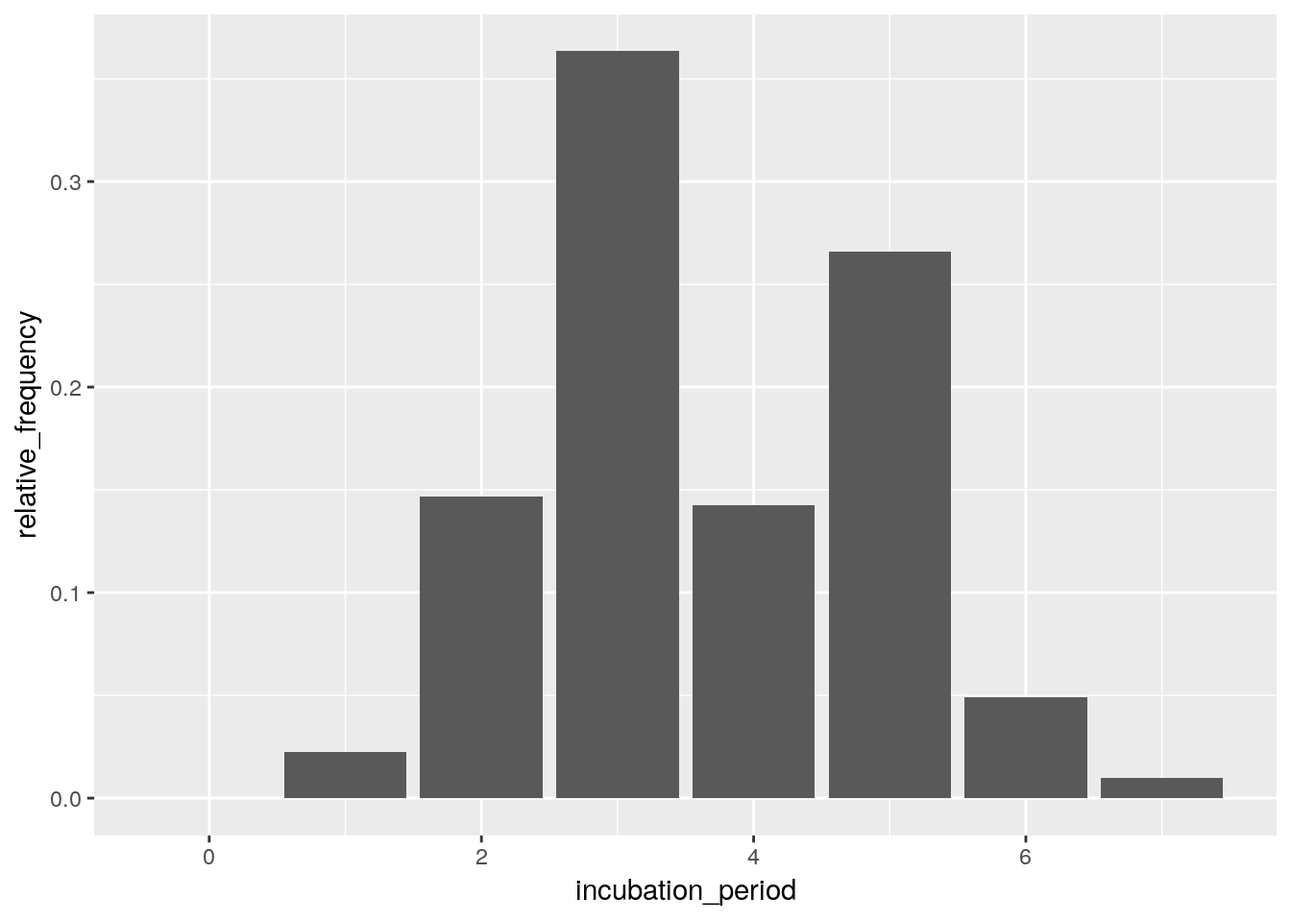
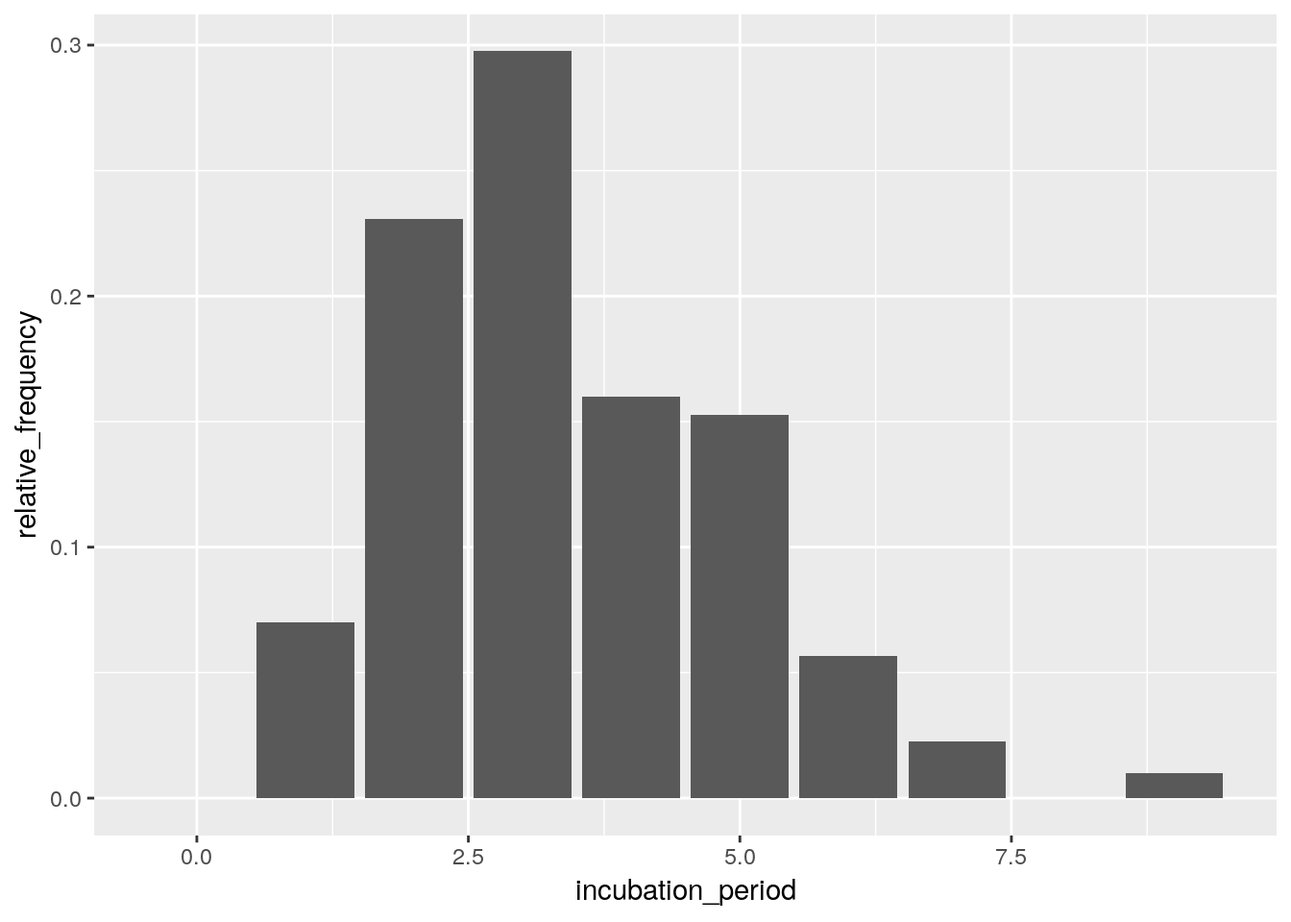
update site

diff --git a/docs/articles/estimate_incubation.html b/docs/articles/estimate_incubation.html
@@ -79,7 +79,7 @@
       <h1>Example to estimate incubation period</h1>
                         <h4 class="author">Flavio Finger</h4>
             
-            <h4 class="date">2019-05-09</h4>
+            <h4 class="date">2019-05-13</h4>
       
       
       <div class="hidden name"><code>estimate_incubation.Rmd</code></div>
@@ -119,79 +119,81 @@
 <a class="sourceLine" id="cb2-8" data-line-number="8"></a>
 <a class="sourceLine" id="cb2-9" data-line-number="9"><span class="kw"><a href="https://www.rdocumentation.org/packages/base/topics/print">print</a></span>(ll)</a>
 <a class="sourceLine" id="cb2-10" data-line-number="10"><span class="co">#&gt;        id date_of_onset  discharge gender epi_case_definition messy_dates</span></a>
-<a class="sourceLine" id="cb2-11" data-line-number="11"><span class="co">#&gt; 1  fmhvka    2018-01-07 2018-01-17   male            probable        &lt;NA&gt;</span></a>
-<a class="sourceLine" id="cb2-12" data-line-number="12"><span class="co">#&gt; 2  fbnujm    2018-01-06 2018-01-16 female            probable  2001-12-01</span></a>
-<a class="sourceLine" id="cb2-13" data-line-number="13"><span class="co">#&gt; 3  qdeewb    2018-01-03 2018-01-13 female           confirmed  1989-12-24</span></a>
-<a class="sourceLine" id="cb2-14" data-line-number="14"><span class="co">#&gt; 4  kcfrql    2018-01-02 2018-01-12 female           suspected  1989-12-24</span></a>
-<a class="sourceLine" id="cb2-15" data-line-number="15"><span class="co">#&gt; 5  vjhjsl    2018-01-08 2018-01-18   male           confirmed  2018-10-18</span></a>
-<a class="sourceLine" id="cb2-16" data-line-number="16"><span class="co">#&gt; 6  nhjgvn    2018-01-06 2018-01-16   male          not_a_case        &lt;NA&gt;</span></a>
-<a class="sourceLine" id="cb2-17" data-line-number="17"><span class="co">#&gt; 7  ksigdg    2018-01-04 2018-01-14 female           suspected        &lt;NA&gt;</span></a>
-<a class="sourceLine" id="cb2-18" data-line-number="18"><span class="co">#&gt; 8  vnnfyg    2018-01-08 2018-01-18 female           suspected  2018-10-19</span></a>
-<a class="sourceLine" id="cb2-19" data-line-number="19"><span class="co">#&gt; 9  fimmcm    2018-01-08 2018-01-18   male           suspected  1989-12-24</span></a>
-<a class="sourceLine" id="cb2-20" data-line-number="20"><span class="co">#&gt; 10 imrgvc    2018-01-04 2018-01-14 female            probable  2018-10-18</span></a>
-<a class="sourceLine" id="cb2-21" data-line-number="21"><span class="co">#&gt; 11 alkknh    2018-01-02 2018-01-12   male           suspected        &lt;NA&gt;</span></a>
-<a class="sourceLine" id="cb2-22" data-line-number="22"><span class="co">#&gt; 12 rjnfab    2018-01-09 2018-01-19   male          not_a_case  1989-12-24</span></a>
-<a class="sourceLine" id="cb2-23" data-line-number="23"><span class="co">#&gt; 13 zlxqji    2018-01-02 2018-01-12 female           suspected        &lt;NA&gt;</span></a>
-<a class="sourceLine" id="cb2-24" data-line-number="24"><span class="co">#&gt; 14 krjtyo    2018-01-11 2018-01-21 female            probable  1989-12-24</span></a>
-<a class="sourceLine" id="cb2-25" data-line-number="25"><span class="co">#&gt; 15 rehsti    2018-01-04 2018-01-14 female           confirmed  1989-12-24</span></a>
-<a class="sourceLine" id="cb2-26" data-line-number="26"><span class="co">#&gt; 16 rdpqqr    2018-01-08 2018-01-18   male           suspected        &lt;NA&gt;</span></a>
-<a class="sourceLine" id="cb2-27" data-line-number="27"><span class="co">#&gt; 17 pmyzbw    2018-01-06 2018-01-16   male            probable  2018-10-19</span></a>
-<a class="sourceLine" id="cb2-28" data-line-number="28"><span class="co">#&gt; 18 powrtu    2018-01-05 2018-01-15   male           suspected  1989-12-24</span></a>
-<a class="sourceLine" id="cb2-29" data-line-number="29"><span class="co">#&gt; 19 yxkjli    2018-01-03 2018-01-13 female          not_a_case        &lt;NA&gt;</span></a>
-<a class="sourceLine" id="cb2-30" data-line-number="30"><span class="co">#&gt; 20 agvjzm    2018-01-08 2018-01-18   male           confirmed        &lt;NA&gt;</span></a>
-<a class="sourceLine" id="cb2-31" data-line-number="31"><span class="co">#&gt;         lat      lon                    dates_exposure</span></a>
-<a class="sourceLine" id="cb2-32" data-line-number="32"><span class="co">#&gt; 1  15.00425 47.83557                             17533</span></a>
-<a class="sourceLine" id="cb2-33" data-line-number="33"><span class="co">#&gt; 2  14.04860 48.92003        17534, 17531, 17535, 17536</span></a>
-<a class="sourceLine" id="cb2-34" data-line-number="34"><span class="co">#&gt; 3  13.70969 47.70066                      17532, 17531</span></a>
-<a class="sourceLine" id="cb2-35" data-line-number="35"><span class="co">#&gt; 4  14.08632 47.87306 17531, 17529, 17530, 17526, 17527</span></a>
-<a class="sourceLine" id="cb2-36" data-line-number="36"><span class="co">#&gt; 5  13.17520 47.92946 17536, 17535, 17537, 17534, 17533</span></a>
-<a class="sourceLine" id="cb2-37" data-line-number="37"><span class="co">#&gt; 6  12.76579 47.65718               17534, 17533, 17532</span></a>
-<a class="sourceLine" id="cb2-38" data-line-number="38"><span class="co">#&gt; 7  10.50843 48.66311               17533, 17532, 17530</span></a>
-<a class="sourceLine" id="cb2-39" data-line-number="39"><span class="co">#&gt; 8  12.72855 47.43452        17537, 17536, 17534, 17535</span></a>
-<a class="sourceLine" id="cb2-40" data-line-number="40"><span class="co">#&gt; 9  11.41124 47.85035               17534, 17535, 17536</span></a>
-<a class="sourceLine" id="cb2-41" data-line-number="41"><span class="co">#&gt; 10 12.02678 47.53190        17530, 17532, 17531, 17533</span></a>
-<a class="sourceLine" id="cb2-42" data-line-number="42"><span class="co">#&gt; 11 14.85872 48.76477                      17528, 17530</span></a>
-<a class="sourceLine" id="cb2-43" data-line-number="43"><span class="co">#&gt; 12 13.17526 47.99662        17536, 17537, 17538, 17535</span></a>
-<a class="sourceLine" id="cb2-44" data-line-number="44"><span class="co">#&gt; 13 18.75718 48.16469                      17528, 17530</span></a>
-<a class="sourceLine" id="cb2-45" data-line-number="45"><span class="co">#&gt; 14 15.97813 49.01414                      17539, 17540</span></a>
-<a class="sourceLine" id="cb2-46" data-line-number="46"><span class="co">#&gt; 15 13.41620 47.78666               17530, 17532, 17531</span></a>
-<a class="sourceLine" id="cb2-47" data-line-number="47"><span class="co">#&gt; 16 13.67188 48.11788                      17536, 17535</span></a>
-<a class="sourceLine" id="cb2-48" data-line-number="48"><span class="co">#&gt; 17 11.83132 49.46672               17532, 17534, 17531</span></a>
-<a class="sourceLine" id="cb2-49" data-line-number="49"><span class="co">#&gt; 18 10.68780 47.83329                      17533, 17531</span></a>
-<a class="sourceLine" id="cb2-50" data-line-number="50"><span class="co">#&gt; 19 10.96289 46.79658                             17531</span></a>
-<a class="sourceLine" id="cb2-51" data-line-number="51"><span class="co">#&gt; 20 12.85011 47.41886 17537, 17535, 17536, 17534, 17538</span></a></code></pre></div>
+<a class="sourceLine" id="cb2-11" data-line-number="11"><span class="co">#&gt; 1  ujfkwq    2018-01-03 2018-01-13 female          not_a_case  2001-12-01</span></a>
+<a class="sourceLine" id="cb2-12" data-line-number="12"><span class="co">#&gt; 2  eyxzua    2018-01-07 2018-01-17   male           confirmed        &lt;NA&gt;</span></a>
+<a class="sourceLine" id="cb2-13" data-line-number="13"><span class="co">#&gt; 3  doulii    2018-01-05 2018-01-15   male          not_a_case        &lt;NA&gt;</span></a>
+<a class="sourceLine" id="cb2-14" data-line-number="14"><span class="co">#&gt; 4  owvlbu    2018-01-02 2018-01-12 female           confirmed        &lt;NA&gt;</span></a>
+<a class="sourceLine" id="cb2-15" data-line-number="15"><span class="co">#&gt; 5  wqbbyq    2018-01-05 2018-01-15 female           suspected        &lt;NA&gt;</span></a>
+<a class="sourceLine" id="cb2-16" data-line-number="16"><span class="co">#&gt; 6  mauyjn    2018-01-02 2018-01-12   male          not_a_case  2001-12-01</span></a>
+<a class="sourceLine" id="cb2-17" data-line-number="17"><span class="co">#&gt; 7  wahzsb    2018-01-09 2018-01-19   male            probable        &lt;NA&gt;</span></a>
+<a class="sourceLine" id="cb2-18" data-line-number="18"><span class="co">#&gt; 8  wyhlwc    2018-01-02 2018-01-12 female           suspected        &lt;NA&gt;</span></a>
+<a class="sourceLine" id="cb2-19" data-line-number="19"><span class="co">#&gt; 9  tbnecx    2018-01-02 2018-01-12   male           suspected        &lt;NA&gt;</span></a>
+<a class="sourceLine" id="cb2-20" data-line-number="20"><span class="co">#&gt; 10 brithg    2018-01-08 2018-01-18   male           confirmed  2018-10-18</span></a>
+<a class="sourceLine" id="cb2-21" data-line-number="21"><span class="co">#&gt; 11 kfezyj    2018-01-08 2018-01-18   male           suspected        &lt;NA&gt;</span></a>
+<a class="sourceLine" id="cb2-22" data-line-number="22"><span class="co">#&gt; 12 anykpl    2018-01-02 2018-01-12 female            probable  1989-12-24</span></a>
+<a class="sourceLine" id="cb2-23" data-line-number="23"><span class="co">#&gt; 13 ndffve    2018-01-09 2018-01-19 female          not_a_case  2001-12-01</span></a>
+<a class="sourceLine" id="cb2-24" data-line-number="24"><span class="co">#&gt; 14 qykakh    2018-01-09 2018-01-19   male          not_a_case        &lt;NA&gt;</span></a>
+<a class="sourceLine" id="cb2-25" data-line-number="25"><span class="co">#&gt; 15 aprglr    2018-01-06 2018-01-16 female          not_a_case        &lt;NA&gt;</span></a>
+<a class="sourceLine" id="cb2-26" data-line-number="26"><span class="co">#&gt; 16 hwepnc    2018-01-07 2018-01-17 female            probable  2018-10-18</span></a>
+<a class="sourceLine" id="cb2-27" data-line-number="27"><span class="co">#&gt; 17 nlmqas    2018-01-08 2018-01-18 female            probable  2018-10-17</span></a>
+<a class="sourceLine" id="cb2-28" data-line-number="28"><span class="co">#&gt; 18 wuzznf    2018-01-06 2018-01-16   male           suspected        &lt;NA&gt;</span></a>
+<a class="sourceLine" id="cb2-29" data-line-number="29"><span class="co">#&gt; 19 obzshh    2018-01-04 2018-01-14   male           suspected  1989-12-24</span></a>
+<a class="sourceLine" id="cb2-30" data-line-number="30"><span class="co">#&gt; 20 nvlxer    2018-01-04 2018-01-14 female           suspected  2018-10-17</span></a>
+<a class="sourceLine" id="cb2-31" data-line-number="31"><span class="co">#&gt;          lat      lon                    dates_exposure</span></a>
+<a class="sourceLine" id="cb2-32" data-line-number="32"><span class="co">#&gt; 1  12.688208 48.36797               17530, 17529, 17531</span></a>
+<a class="sourceLine" id="cb2-33" data-line-number="33"><span class="co">#&gt; 2   9.496732 48.10133                      17535, 17536</span></a>
+<a class="sourceLine" id="cb2-34" data-line-number="34"><span class="co">#&gt; 3  13.276658 49.10333 17533, 17532, 17535, 17527, 17534</span></a>
+<a class="sourceLine" id="cb2-35" data-line-number="35"><span class="co">#&gt; 4  15.443281 50.26166        17529, 17530, 17528, 17531</span></a>
+<a class="sourceLine" id="cb2-36" data-line-number="36"><span class="co">#&gt; 5  12.186121 47.46422        17534, 17533, 17532, 17531</span></a>
+<a class="sourceLine" id="cb2-37" data-line-number="37"><span class="co">#&gt; 6  10.887826 48.27850        17528, 17531, 17529, 17530</span></a>
+<a class="sourceLine" id="cb2-38" data-line-number="38"><span class="co">#&gt; 7  11.755842 47.69728                             17539</span></a>
+<a class="sourceLine" id="cb2-39" data-line-number="39"><span class="co">#&gt; 8  12.484501 50.46869               17528, 17527, 17531</span></a>
+<a class="sourceLine" id="cb2-40" data-line-number="40"><span class="co">#&gt; 9  11.566569 47.99664               17528, 17529, 17530</span></a>
+<a class="sourceLine" id="cb2-41" data-line-number="41"><span class="co">#&gt; 10 13.635864 48.10328 17537, 17534, 17535, 17536, 17533</span></a>
+<a class="sourceLine" id="cb2-42" data-line-number="42"><span class="co">#&gt; 11 15.703823 48.67810                             17536</span></a>
+<a class="sourceLine" id="cb2-43" data-line-number="43"><span class="co">#&gt; 12 12.643401 48.12971               17531, 17530, 17529</span></a>
+<a class="sourceLine" id="cb2-44" data-line-number="44"><span class="co">#&gt; 13 15.226172 48.88853        17536, 17537, 17538, 17535</span></a>
+<a class="sourceLine" id="cb2-45" data-line-number="45"><span class="co">#&gt; 14 13.603475 46.06085                             17538</span></a>
+<a class="sourceLine" id="cb2-46" data-line-number="46"><span class="co">#&gt; 15 10.708423 48.01061 17534, 17533, 17531, 17535, 17536</span></a>
+<a class="sourceLine" id="cb2-47" data-line-number="47"><span class="co">#&gt; 16 14.720354 47.77516 17535, 17534, 17533, 17531, 17536</span></a>
+<a class="sourceLine" id="cb2-48" data-line-number="48"><span class="co">#&gt; 17 12.902306 49.15254                             17536</span></a>
+<a class="sourceLine" id="cb2-49" data-line-number="49"><span class="co">#&gt; 18 14.379251 46.48828        17535, 17534, 17532, 17530</span></a>
+<a class="sourceLine" id="cb2-50" data-line-number="50"><span class="co">#&gt; 19 14.677445 47.84708 17532, 17533, 17531, 17530, 17529</span></a>
+<a class="sourceLine" id="cb2-51" data-line-number="51"><span class="co">#&gt; 20 15.894964 48.53582 17532, 17531, 17530, 17533, 17529</span></a></code></pre></div>
 <p>Empirical distribution:</p>
 <div class="sourceCode" id="cb3"><pre class="sourceCode r"><code class="sourceCode r"><a class="sourceLine" id="cb3-1" data-line-number="1">incubation_period_dist &lt;-<span class="st"> </span><span class="kw"><a href="../reference/empirical_incubation_dist.html">empirical_incubation_dist</a></span>(ll, date_of_onset, dates_exposure)</a>
 <a class="sourceLine" id="cb3-2" data-line-number="2"><span class="kw"><a href="https://www.rdocumentation.org/packages/base/topics/print">print</a></span>(incubation_period_dist)</a>
-<a class="sourceLine" id="cb3-3" data-line-number="3"><span class="co">#&gt; # A tibble: 8 x 2</span></a>
-<a class="sourceLine" id="cb3-4" data-line-number="4"><span class="co">#&gt;   incubation_period relative_frequency</span></a>
-<a class="sourceLine" id="cb3-5" data-line-number="5"><span class="co">#&gt;               &lt;dbl&gt;              &lt;dbl&gt;</span></a>
-<a class="sourceLine" id="cb3-6" data-line-number="6"><span class="co">#&gt; 1                 0             0     </span></a>
-<a class="sourceLine" id="cb3-7" data-line-number="7"><span class="co">#&gt; 2                 1             0.0225</span></a>
-<a class="sourceLine" id="cb3-8" data-line-number="8"><span class="co">#&gt; 3                 2             0.147 </span></a>
-<a class="sourceLine" id="cb3-9" data-line-number="9"><span class="co">#&gt; 4                 3             0.363 </span></a>
-<a class="sourceLine" id="cb3-10" data-line-number="10"><span class="co">#&gt; 5                 4             0.143 </span></a>
-<a class="sourceLine" id="cb3-11" data-line-number="11"><span class="co">#&gt; 6                 5             0.266 </span></a>
-<a class="sourceLine" id="cb3-12" data-line-number="12"><span class="co">#&gt; 7                 6             0.0492</span></a>
-<a class="sourceLine" id="cb3-13" data-line-number="13"><span class="co">#&gt; 8                 7             0.01</span></a>
-<a class="sourceLine" id="cb3-14" data-line-number="14"></a>
-<a class="sourceLine" id="cb3-15" data-line-number="15"><span class="kw"><a href="https://www.rdocumentation.org/packages/ggplot2/topics/ggplot">ggplot</a></span>(incubation_period_dist, <span class="kw"><a href="https://www.rdocumentation.org/packages/ggplot2/topics/aes">aes</a></span>(incubation_period, relative_frequency)) <span class="op">+</span></a>
-<a class="sourceLine" id="cb3-16" data-line-number="16"><span class="st">  </span><span class="kw"><a href="https://www.rdocumentation.org/packages/ggplot2/topics/geom_bar">geom_col</a></span>()</a></code></pre></div>
+<a class="sourceLine" id="cb3-3" data-line-number="3"><span class="co">#&gt; # A tibble: 10 x 2</span></a>
+<a class="sourceLine" id="cb3-4" data-line-number="4"><span class="co">#&gt;    incubation_period relative_frequency</span></a>
+<a class="sourceLine" id="cb3-5" data-line-number="5"><span class="co">#&gt;                &lt;dbl&gt;              &lt;dbl&gt;</span></a>
+<a class="sourceLine" id="cb3-6" data-line-number="6"><span class="co">#&gt;  1                 0             0     </span></a>
+<a class="sourceLine" id="cb3-7" data-line-number="7"><span class="co">#&gt;  2                 1             0.0700</span></a>
+<a class="sourceLine" id="cb3-8" data-line-number="8"><span class="co">#&gt;  3                 2             0.231 </span></a>
+<a class="sourceLine" id="cb3-9" data-line-number="9"><span class="co">#&gt;  4                 3             0.298 </span></a>
+<a class="sourceLine" id="cb3-10" data-line-number="10"><span class="co">#&gt;  5                 4             0.16  </span></a>
+<a class="sourceLine" id="cb3-11" data-line-number="11"><span class="co">#&gt;  6                 5             0.152 </span></a>
+<a class="sourceLine" id="cb3-12" data-line-number="12"><span class="co">#&gt;  7                 6             0.0567</span></a>
+<a class="sourceLine" id="cb3-13" data-line-number="13"><span class="co">#&gt;  8                 7             0.0225</span></a>
+<a class="sourceLine" id="cb3-14" data-line-number="14"><span class="co">#&gt;  9                 8             0     </span></a>
+<a class="sourceLine" id="cb3-15" data-line-number="15"><span class="co">#&gt; 10                 9             0.01</span></a>
+<a class="sourceLine" id="cb3-16" data-line-number="16"></a>
+<a class="sourceLine" id="cb3-17" data-line-number="17"><span class="kw"><a href="https://www.rdocumentation.org/packages/ggplot2/topics/ggplot">ggplot</a></span>(incubation_period_dist, <span class="kw"><a href="https://www.rdocumentation.org/packages/ggplot2/topics/aes">aes</a></span>(incubation_period, relative_frequency)) <span class="op">+</span></a>
+<a class="sourceLine" id="cb3-18" data-line-number="18"><span class="st">  </span><span class="kw"><a href="https://www.rdocumentation.org/packages/ggplot2/topics/geom_bar">geom_col</a></span>()</a></code></pre></div>
 <p><img src="figs-overview/unnamed-chunk-4-1.png" width="672"></p>
 <p>Fit discrete gamma:</p>
 <div class="sourceCode" id="cb4"><pre class="sourceCode r"><code class="sourceCode r"><a class="sourceLine" id="cb4-1" data-line-number="1">fit &lt;-<span class="st"> </span><span class="kw"><a href="../reference/fit_gamma_incubation_dist.html">fit_gamma_incubation_dist</a></span>(ll, date_of_onset, dates_exposure)</a>
 <a class="sourceLine" id="cb4-2" data-line-number="2"><span class="kw"><a href="https://www.rdocumentation.org/packages/base/topics/print">print</a></span>(fit)</a>
 <a class="sourceLine" id="cb4-3" data-line-number="3"><span class="co">#&gt; $mu</span></a>
-<a class="sourceLine" id="cb4-4" data-line-number="4"><span class="co">#&gt; [1] 4.161136</span></a>
+<a class="sourceLine" id="cb4-4" data-line-number="4"><span class="co">#&gt; [1] 3.984821</span></a>
 <a class="sourceLine" id="cb4-5" data-line-number="5"><span class="co">#&gt; </span></a>
 <a class="sourceLine" id="cb4-6" data-line-number="6"><span class="co">#&gt; $cv</span></a>
-<a class="sourceLine" id="cb4-7" data-line-number="7"><span class="co">#&gt; [1] 0.2935659</span></a>
+<a class="sourceLine" id="cb4-7" data-line-number="7"><span class="co">#&gt; [1] 0.3827553</span></a>
 <a class="sourceLine" id="cb4-8" data-line-number="8"><span class="co">#&gt; </span></a>
 <a class="sourceLine" id="cb4-9" data-line-number="9"><span class="co">#&gt; $sd</span></a>
-<a class="sourceLine" id="cb4-10" data-line-number="10"><span class="co">#&gt; [1] 1.221568</span></a>
+<a class="sourceLine" id="cb4-10" data-line-number="10"><span class="co">#&gt; [1] 1.525211</span></a>
 <a class="sourceLine" id="cb4-11" data-line-number="11"><span class="co">#&gt; </span></a>
 <a class="sourceLine" id="cb4-12" data-line-number="12"><span class="co">#&gt; $ll</span></a>
-<a class="sourceLine" id="cb4-13" data-line-number="13"><span class="co">#&gt; [1] -1623.828</span></a>
+<a class="sourceLine" id="cb4-13" data-line-number="13"><span class="co">#&gt; [1] -1812.963</span></a>
 <a class="sourceLine" id="cb4-14" data-line-number="14"><span class="co">#&gt; </span></a>
 <a class="sourceLine" id="cb4-15" data-line-number="15"><span class="co">#&gt; $converged</span></a>
 <a class="sourceLine" id="cb4-16" data-line-number="16"><span class="co">#&gt; [1] TRUE</span></a>
@@ -200,8 +202,8 @@
 <a class="sourceLine" id="cb4-19" data-line-number="19"><span class="co">#&gt; A discrete distribution</span></a>
 <a class="sourceLine" id="cb4-20" data-line-number="20"><span class="co">#&gt;   name: gamma</span></a>
 <a class="sourceLine" id="cb4-21" data-line-number="21"><span class="co">#&gt;   parameters:</span></a>
-<a class="sourceLine" id="cb4-22" data-line-number="22"><span class="co">#&gt;     shape: 11.6034936182369</span></a>
-<a class="sourceLine" id="cb4-23" data-line-number="23"><span class="co">#&gt;     scale: 0.358610607433144</span></a>
+<a class="sourceLine" id="cb4-22" data-line-number="22"><span class="co">#&gt;     shape: 6.82586216220056</span></a>
+<a class="sourceLine" id="cb4-23" data-line-number="23"><span class="co">#&gt;     scale: 0.58378274853449</span></a>
 <a class="sourceLine" id="cb4-24" data-line-number="24"></a>
 <a class="sourceLine" id="cb4-25" data-line-number="25">x =<span class="st"> </span><span class="kw"><a href="https://www.rdocumentation.org/packages/base/topics/c">c</a></span>(<span class="dv">0</span><span class="op">:</span><span class="dv">10</span>)</a>
 <a class="sourceLine" id="cb4-26" data-line-number="26">y =<span class="st"> </span>fit<span class="op">$</span>distribution<span class="op">$</span><span class="kw">d</span>(x)</a>

diff --git a/docs/reference/hash_names.html b/docs/reference/hash_names.html
@@ -37,7 +37,7 @@ based on user-indicated data fields. Data fields are concatenated first,
 then each entry is hashed. The function can either return a full detailed
 output, or short labels ready to use for 'anonymised data'.
 Before concatenation (using &quot;_&quot; as a separator) to form labels,
-inputs are modified using clean_labels." />
+inputs are modified using [clean_labels()]" />
 <meta name="twitter:card" content="summary" />
 
 
@@ -129,12 +129,12 @@ based on user-indicated data fields. Data fields are concatenated first,
 then each entry is hashed. The function can either return a full detailed
 output, or short labels ready to use for 'anonymised data'.
 Before concatenation (using "_" as a separator) to form labels,
-inputs are modified using <code><a href='clean_labels.html'>clean_labels</a></code>.</p>
+inputs are modified using [clean_labels()]</p>
     
     </div>
 
-    <pre class="usage"><span class='fu'>hash_names</span>(<span class='no'>...</span>, <span class='kw'>size</span> <span class='kw'>=</span> <span class='fl'>6</span>, <span class='kw'>full</span> <span class='kw'>=</span> <span class='fl'>TRUE</span>, <span class='kw'>salt</span> <span class='kw'>=</span> <span class='kw'>NULL</span>,
-  <span class='kw'>clean_labels</span> <span class='kw'>=</span> <span class='fl'>TRUE</span>)</pre>
+    <pre class="usage"><span class='fu'>hash_names</span>(<span class='no'>...</span>, <span class='kw'>size</span> <span class='kw'>=</span> <span class='fl'>6</span>, <span class='kw'>full</span> <span class='kw'>=</span> <span class='fl'>TRUE</span>, <span class='kw'>hashfun</span> <span class='kw'>=</span> <span class='st'>"secure"</span>,
+  <span class='kw'>salt</span> <span class='kw'>=</span> <span class='kw'>NULL</span>, <span class='kw'>clean_labels</span> <span class='kw'>=</span> <span class='fl'>TRUE</span>)</pre>
     
     <h2 class="hasAnchor" id="arguments"><a class="anchor" href="#arguments"></a>Arguments</h2>
     <table class="ref-arguments">
@@ -154,10 +154,20 @@ inputs are modified using <code><a href='clean_labels.html'>clean_labels</a></co
 hash.</p></td>
     </tr>
     <tr>
+      <th>hashfun</th>
+      <td><p>This defines the hashing function to be used. If you specify
+"secure" (default), it will use [sodium::scrypt()], which will be secure,
+but will be slow for large data sets. For fast hashing with no colisions,
+you can sepecify "fast", and it will use [sodium::sha256()], which is
+several orders of magnitude faster than [sodium::scrypt()]. You can also
+specify a hashing function that takes and returns a [raw][base::raw]
+vector of bytes that can be converted to character with [rawToChar()].</p></td>
+    </tr>
+    <tr>
       <th>salt</th>
       <td><p>An optional object that can be coerced to a character
 to be used to 'salt' the hashing algorithm (see details).
-Ignored if <code>NULL</code> (default).</p></td>
+Ignored if `NULL`.</p></td>
     </tr>
     <tr>
       <th>clean_labels</th>
@@ -168,7 +178,7 @@ standardized; defaults to `TRUE`</p></td>
     
     <h2 class="hasAnchor" id="details"><a class="anchor" href="#details"></a>Details</h2>
 
-    <p>The argument <code>salt</code> should be used for salting the algorithm, i.e. adding
+    <p>The argument `salt` should be used for salting the algorithm, i.e. adding
 an extra input to the input fields (the 'salt') to change the resulting hash
 and prevent identification of individuals via pre-computed hash
 tables.</p>
@@ -177,7 +187,8 @@ for an attacker to decode the hash.</p>
     
     <h2 class="hasAnchor" id="see-also"><a class="anchor" href="#see-also"></a>See also</h2>
 
-    <div class='dont-index'><p><code><a href='clean_labels.html'>clean_labels</a></code>, used to clean labels prior to hashing.</p></div>
+    <div class='dont-index'><p>[clean_labels()], used to clean labels prior to hashing<br />
+ [sodium::hash()] for available hashing functions.</p></div>
     
 
     <h2 class="hasAnchor" id="examples"><a class="anchor" href="#examples"></a>Examples</h2>
@@ -186,7 +197,8 @@ for an attacker to decode the hash.</p>
 <span class='no'>last_name</span> <span class='kw'>&lt;-</span> <span class='fu'><a href='https://www.rdocumentation.org/packages/base/topics/c'>c</a></span>(<span class='st'>"Doe"</span>, <span class='st'>"Smith"</span>, <span class='st'>"Dupont"</span>)
 <span class='no'>age</span> <span class='kw'>&lt;-</span> <span class='fu'><a href='https://www.rdocumentation.org/packages/base/topics/c'>c</a></span>(<span class='fl'>25</span>, <span class='fl'>69</span>, <span class='fl'>36</span>)
 
-<span class='fu'>hash_names</span>(<span class='no'>first_name</span>, <span class='no'>last_name</span>, <span class='no'>age</span>)</div><div class='output co'>#&gt;             label hash_short
+<span class='co'># secure hashing</span>
+<span class='fu'>hash_names</span>(<span class='no'>first_name</span>, <span class='no'>last_name</span>, <span class='no'>age</span>, <span class='kw'>hashfun</span> <span class='kw'>=</span> <span class='st'>"secure"</span>)</div><div class='output co'>#&gt;             label hash_short
 #&gt; 1     jane_doe_25     6485f2
 #&gt; 2    joe_smith_69     ea1ccc
 #&gt; 3 raoul_dupont_36     f60676
@@ -194,10 +206,12 @@ for an attacker to decode the hash.</p>
 #&gt; 1 6485f29654c5a9d55625cd6efeb96d569917e1c272790959ad3fa132c6d51648
 #&gt; 2 ea1cccce320aa45a0d694ea12c30ff6b4b52c67f69d58b23dad5441ea17c5807
 #&gt; 3 f60676d1c11ae5badc0e5ec4dfde06eaba817a78f3d54eb327a25df485ec1efd</div><div class='input'>
+<span class='co'># fast hashing</span>
 <span class='fu'>hash_names</span>(<span class='no'>first_name</span>, <span class='no'>last_name</span>, <span class='no'>age</span>,
-           <span class='kw'>size</span> <span class='kw'>=</span> <span class='fl'>8</span>, <span class='kw'>full</span> <span class='kw'>=</span> <span class='fl'>FALSE</span>)</div><div class='output co'>#&gt; [1] "6485f296" "ea1cccce" "f60676d1"</div><div class='input'>
+           <span class='kw'>size</span> <span class='kw'>=</span> <span class='fl'>8</span>, <span class='kw'>full</span> <span class='kw'>=</span> <span class='fl'>FALSE</span>, <span class='kw'>hashfun</span> <span class='kw'>=</span> <span class='st'>"fast"</span>)</div><div class='output co'>#&gt; [1] "f3bb3fb9" "1a62b1ef" "3f2a0e20"</div><div class='input'>
 
 <span class='co'>## salting the hashing (more secure!)</span>
+
 <span class='fu'>hash_names</span>(<span class='no'>first_name</span>, <span class='no'>last_name</span>) <span class='co'># unsalted - less secure</span></div><div class='output co'>#&gt;          label hash_short
 #&gt; 1     jane_doe     304b8f
 #&gt; 2    joe_smith     1b2f7a
@@ -219,7 +233,17 @@ for an attacker to decode the hash.</p>
 #&gt;                                                               hash
 #&gt; 1 cd525deb528a070fe124e03922f12555b40f3b012ce09b79a97b256ce1b5b8fb
 #&gt; 2 ad9dd482fb90e7e8e50567b9e9664013b064fc9dbfa7f9646642bab85cbd8cf9
-#&gt; 3 e5aba9f7a4feed03c7dc66533d01dc6768236105daf2768c9c7769fee54735d1</div></pre>
+#&gt; 3 e5aba9f7a4feed03c7dc66533d01dc6768236105daf2768c9c7769fee54735d1</div><div class='input'>
+<span class='co'>## using a different hash algorithm if you want things to run faster</span>
+
+<span class='fu'>hash_names</span>(<span class='no'>first_name</span>, <span class='no'>last_name</span>, <span class='kw'>hashfun</span> <span class='kw'>=</span> <span class='st'>"fast"</span>) <span class='co'># use sha256 algorithm</span></div><div class='output co'>#&gt;          label hash_short
+#&gt; 1     jane_doe     a79b84
+#&gt; 2    joe_smith     661b7f
+#&gt; 3 raoul_dupont     66ec68
+#&gt;                                                               hash
+#&gt; 1 a79b84d8a9787704e9760eb81286676ef64ece85ea780a0793f3de8e698185f9
+#&gt; 2 661b7ffc27bc217bdd04a085b2cafe698d36496d0d3c372a89d4f77f0115ad8c
+#&gt; 3 66ec68882bd0f52e6861078067003c291290504f3f87298d091999668b5901cf</div></pre>
   </div>
   <div class="col-md-3 hidden-xs hidden-sm" id="sidebar">
     <h2>Contents</h2>
@@ -235,7 +259,8 @@ for an attacker to decode the hash.</p>
 
     <h2>Author</h2>
     <p>Thibaut Jombart <a href='mailto:thibautjombart@gmail.com'>thibautjombart@gmail.com</a>,
-  Dirk Shchumacher <a href='mailto:mail@dirk-schumacher.net'>mail@dirk-schumacher.net</a></p>
+  Dirk Shchumacher <a href='mailto:mail@dirk-schumacher.net'>mail@dirk-schumacher.net</a>,
+  Zhian N. Kamvar <a href='mailto:zkamvar@gmail.com'>zkamvar@gmail.com</a></p>
   </div>
 </div>
 

diff --git a/docs/articles/epitrix.html b/docs/articles/epitrix.html
@@ -79,7 +79,7 @@
       <h1>Overview of the epitrix package</h1>
                         <h4 class="author">Thibaut Jombart</h4>
             
-            <h4 class="date">2019-05-09</h4>
+            <h4 class="date">2019-05-13</h4>
       
       
       <div class="hidden name"><code>epitrix.Rmd</code></div>
@@ -253,21 +253,25 @@
 <a class="sourceLine" id="cb9-5" data-line-number="5"></a>
 <a class="sourceLine" id="cb9-6" data-line-number="6"><span class="co">## detailed output by default</span></a>
 <a class="sourceLine" id="cb9-7" data-line-number="7"><span class="kw"><a href="../reference/hash_names.html">hash_names</a></span>(first_name, last_name, age)</a>
-<a class="sourceLine" id="cb9-8" data-line-number="8"><span class="co">#&gt;             label hash_short</span></a>
-<a class="sourceLine" id="cb9-9" data-line-number="9"><span class="co">#&gt; 1     jane_doe_25     6485f2</span></a>
-<a class="sourceLine" id="cb9-10" data-line-number="10"><span class="co">#&gt; 2    joe_smith_69     ea1ccc</span></a>
-<a class="sourceLine" id="cb9-11" data-line-number="11"><span class="co">#&gt; 3 raoul_dupont_36     f60676</span></a>
-<a class="sourceLine" id="cb9-12" data-line-number="12"><span class="co">#&gt; 4 raoul_dupond_36     cd7104</span></a>
-<a class="sourceLine" id="cb9-13" data-line-number="13"><span class="co">#&gt;                                                               hash</span></a>
-<a class="sourceLine" id="cb9-14" data-line-number="14"><span class="co">#&gt; 1 6485f29654c5a9d55625cd6efeb96d569917e1c272790959ad3fa132c6d51648</span></a>
-<a class="sourceLine" id="cb9-15" data-line-number="15"><span class="co">#&gt; 2 ea1cccce320aa45a0d694ea12c30ff6b4b52c67f69d58b23dad5441ea17c5807</span></a>
-<a class="sourceLine" id="cb9-16" data-line-number="16"><span class="co">#&gt; 3 f60676d1c11ae5badc0e5ec4dfde06eaba817a78f3d54eb327a25df485ec1efd</span></a>
-<a class="sourceLine" id="cb9-17" data-line-number="17"><span class="co">#&gt; 4 cd7104e7e7009bfd988d5a4b46a930424908736065573e51a85d16575ed7c2a5</span></a>
+<a class="sourceLine" id="cb9-8" data-line-number="8"><span class="co">#&gt;             label hash_short                                                             hash</span></a>
+<a class="sourceLine" id="cb9-9" data-line-number="9"><span class="co">#&gt; 1     jane_doe_25     6485f2 6485f29654c5a9d55625cd6efeb96d569917e1c272790959ad3fa132c6d51648</span></a>
+<a class="sourceLine" id="cb9-10" data-line-number="10"><span class="co">#&gt; 2    joe_smith_69     ea1ccc ea1cccce320aa45a0d694ea12c30ff6b4b52c67f69d58b23dad5441ea17c5807</span></a>
+<a class="sourceLine" id="cb9-11" data-line-number="11"><span class="co">#&gt; 3 raoul_dupont_36     f60676 f60676d1c11ae5badc0e5ec4dfde06eaba817a78f3d54eb327a25df485ec1efd</span></a>
+<a class="sourceLine" id="cb9-12" data-line-number="12"><span class="co">#&gt; 4 raoul_dupond_36     cd7104 cd7104e7e7009bfd988d5a4b46a930424908736065573e51a85d16575ed7c2a5</span></a>
+<a class="sourceLine" id="cb9-13" data-line-number="13"></a>
+<a class="sourceLine" id="cb9-14" data-line-number="14"><span class="co">## short labels for practical use, using a faster (but less secure) algorithm</span></a>
+<a class="sourceLine" id="cb9-15" data-line-number="15"><span class="kw"><a href="../reference/hash_names.html">hash_names</a></span>(first_name, last_name, age,</a>
+<a class="sourceLine" id="cb9-16" data-line-number="16">           <span class="dt">size =</span> <span class="dv">8</span>, <span class="dt">full =</span> <span class="ot">FALSE</span>, <span class="dt">hashfun =</span> sodium<span class="op">::</span>sha256)</a>
+<a class="sourceLine" id="cb9-17" data-line-number="17"><span class="co">#&gt; [1] "f3bb3fb9" "1a62b1ef" "3f2a0e20" "3aad952f"</span></a>
 <a class="sourceLine" id="cb9-18" data-line-number="18"></a>
-<a class="sourceLine" id="cb9-19" data-line-number="19"><span class="co">## short labels for practical use</span></a>
+<a class="sourceLine" id="cb9-19" data-line-number="19"><span class="co">## adding a salt for extra security</span></a>
 <a class="sourceLine" id="cb9-20" data-line-number="20"><span class="kw"><a href="../reference/hash_names.html">hash_names</a></span>(first_name, last_name, age,</a>
-<a class="sourceLine" id="cb9-21" data-line-number="21">           <span class="dt">size =</span> <span class="dv">8</span>, <span class="dt">full =</span> <span class="ot">FALSE</span>)</a>
-<a class="sourceLine" id="cb9-22" data-line-number="22"><span class="co">#&gt; [1] "6485f296" "ea1cccce" "f60676d1" "cd7104e7"</span></a></code></pre></div>
+<a class="sourceLine" id="cb9-21" data-line-number="21">           <span class="dt">salt =</span> <span class="st">"Keep it secret"</span>)</a>
+<a class="sourceLine" id="cb9-22" data-line-number="22"><span class="co">#&gt;             label hash_short                                                             hash</span></a>
+<a class="sourceLine" id="cb9-23" data-line-number="23"><span class="co">#&gt; 1     jane_doe_25     374951 374951505153661b59661942f27736bd86f93779662c552beed1e00b3d47d47a</span></a>
+<a class="sourceLine" id="cb9-24" data-line-number="24"><span class="co">#&gt; 2    joe_smith_69     4ca079 4ca079f3e3338ede974d8ecbcf474a2cf5c400da32a5f6ae116817f5d294083b</span></a>
+<a class="sourceLine" id="cb9-25" data-line-number="25"><span class="co">#&gt; 3 raoul_dupont_36     1980c7 1980c7a52740917865d613d2250d549833ec82245b105229f06dc6c9df792b95</span></a>
+<a class="sourceLine" id="cb9-26" data-line-number="26"><span class="co">#&gt; 4 raoul_dupond_36     faf491 faf491d52d05d2ae1cef7ef5277903cdadfee9b9d6aae88c60f3400ab08dc98f</span></a></code></pre></div>
 </div>
   </div>
 

diff --git a/docs/news/index.html b/docs/news/index.html
@@ -127,6 +127,16 @@
 <code><a href="../reference/fit_gamma_incubation_dist.html">fit_gamma_incubation_dist()</a></code> wraps <code><a href="../reference/empirical_incubation_dist.html">empirical_incubation_dist()</a></code> and <code><a href="../reference/fit_disc_gamma.html">fit_disc_gamma()</a></code> to fit a discretized gamma distribution to the empirical incubation distribution results (<a href='https://github.com/ffinger'>@ffinger</a>, #13).</li>
 </ul>
 </div>
+<div id="new-features" class="section level2">
+<h2 class="hasAnchor">
+<a href="#new-features" class="anchor"></a>New Features</h2>
+<ul>
+<li>
+<code><a href="../reference/clean_labels.html">clean_labels()</a></code> gains the <code>protect</code> argument to protect meaningful symbols in the data.</li>
+<li>
+<code><a href="../reference/hash_names.html">hash_names()</a></code> now has the <code>hashfun</code> option that allows users to specify either a “fast” or “secure” hashing function to use (<a href='https://github.com/zkamvar'>@zkamvar</a>, #21).</li>
+</ul>
+</div>
 <div id="new-vignettes" class="section level2">
 <h2 class="hasAnchor">
 <a href="#new-vignettes" class="anchor"></a>New Vignettes</h2>
@@ -147,8 +157,6 @@
 <ul>
 <li>
 <code><a href="../reference/clean_labels.html">clean_labels()</a></code> can now handle non-latin characters and gains the <code>trans_id</code> argument, which allows the user to customise the transformations (see <a href="https://github.com/reconhub/epitrix/issues/19" class="uri">https://github.com/reconhub/epitrix/issues/19</a> for details).</li>
-<li>
-<code><a href="../reference/clean_labels.html">clean_labels()</a></code> gains the <code>protect</code> argument to protect meaningful symbols in the data.</li>
 </ul>
 </div>
 </div>
